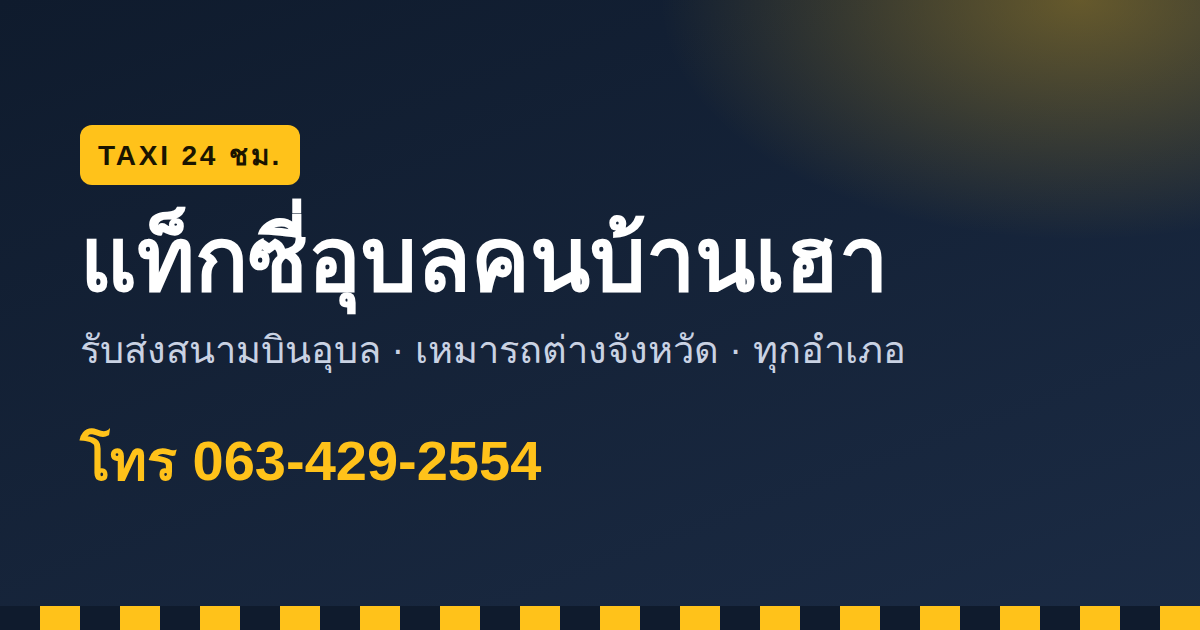
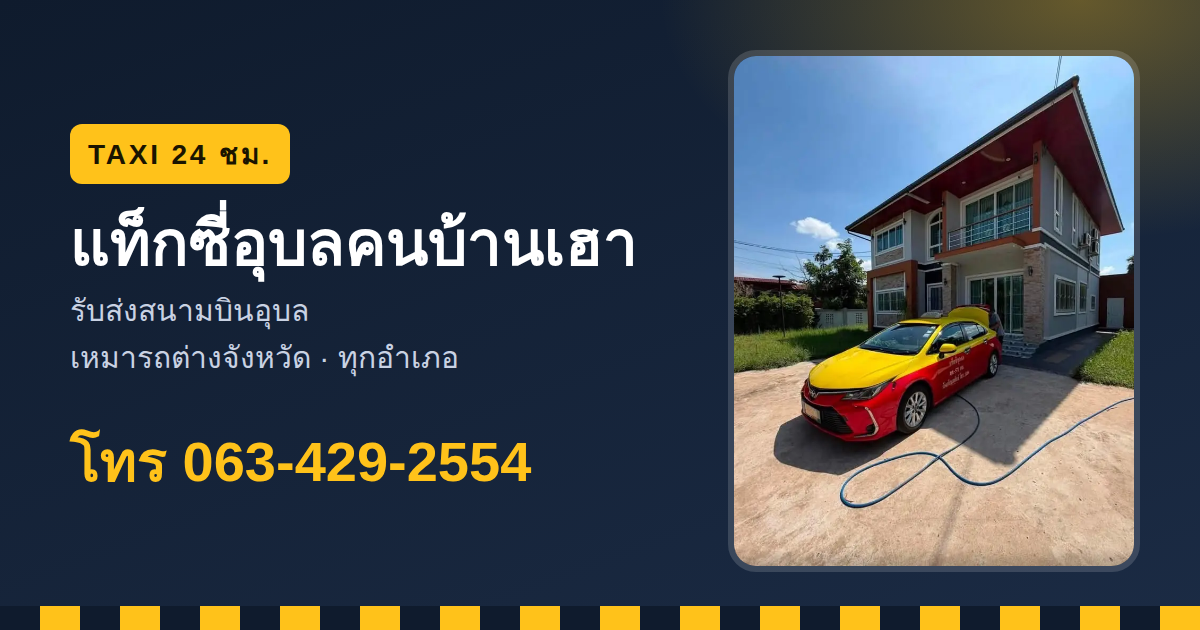
feat(taxi-ubon): real service photos on home, inner pages and OG image
Optimized WebP (480/800/1200w, EXIF stripped) with responsive srcset,
hero photo on home, photo band on every inner page, gallery on home/about.

Claude-Session: https://claude.ai/code/session_01U9xTqR4CxY4YcqVZyJ1H62

diff --git a/taxi-ubon/static/assets/site.css b/taxi-ubon/static/assets/site.css
@@ -155,3 +155,40 @@ tbody th{font-weight:600}
 @media(min-width:900px){.sticky-cta{display:none}}
 
 @media(prefers-reduced-motion:reduce){*{transition:none!important;scroll-behavior:auto!important}}
+
+/* photos */
+.hero-photo{position:relative;margin:0;justify-self:center;width:100%;max-width:440px}
+.hero-photo img{display:block;width:100%;aspect-ratio:4/5;object-fit:cover;border-radius:24px;border:4px solid rgba(255,255,255,.12);
+  box-shadow:0 30px 60px -20px rgba(0,0,0,.6)}
+.hero-photo::before{content:"";position:absolute;inset:18px -14px -14px 18px;border-radius:24px;z-index:-1;
+  background:repeating-linear-gradient(45deg,var(--brand) 0 14px,transparent 14px 28px);opacity:.35}
+.hero-photo{isolation:isolate}
+.badge{position:absolute;display:flex;align-items:center;gap:8px;background:#fff;color:var(--text);padding:10px 14px;border-radius:14px;
+  box-shadow:0 12px 30px rgba(0,0,0,.25);font-size:.9rem;line-height:1.3}
+.badge .i{color:#8a6200;width:1.5em;height:1.5em}
+.badge b{color:var(--ink)}
+.badge-top{top:18px;left:-10px}
+.badge-bottom{bottom:22px;right:-10px}
+@media(max-width:899px){.hero-photo img{aspect-ratio:4/3;object-position:50% 85%}.badge-top{left:10px}.badge-bottom{right:10px}}
+
+.photo-band{margin-top:40px;display:grid;gap:14px}
+@media(min-width:760px){.photo-band{grid-template-columns:2fr 1fr}}
+.photo-band figure{margin:0;position:relative;overflow:hidden;border-radius:var(--radius);background:#dde3ee}
+.photo-band img{display:block;width:100%;height:100%;object-fit:cover}
+.pb-main img{aspect-ratio:4/3}
+.pb-main figcaption{position:absolute;left:0;right:0;bottom:0;padding:28px 16px 12px;color:#fff;font-size:.9rem;
+  background:linear-gradient(transparent,rgba(15,27,45,.85))}
+.pb-side{display:grid;gap:14px;grid-template-columns:1fr 1fr}
+@media(min-width:760px){.pb-side{grid-template-columns:1fr;grid-template-rows:1fr auto}}
+.pb-side img{aspect-ratio:1/1}
+@media(min-width:760px){.pb-side img{aspect-ratio:auto;min-height:0}.pb-side figure{min-height:180px}}
+.pb-quote{background:var(--ink);color:#c9d2e3;border-radius:var(--radius);padding:18px;display:flex;flex-direction:column;gap:6px;justify-content:center;font-size:.92rem}
+.pb-quote b{color:var(--brand);font-size:1.05rem}
+
+.gallery{display:grid;gap:12px;grid-template-columns:1fr 1fr}
+@media(min-width:960px){.gallery{grid-template-columns:repeat(4,1fr)}}
+.gallery figure{margin:0;position:relative;overflow:hidden;border-radius:var(--radius);background:#dde3ee}
+.gallery img{display:block;width:100%;aspect-ratio:3/4;object-fit:cover;transition:transform .4s ease}
+.gallery figure:hover img{transform:scale(1.04)}
+.gallery figcaption{position:absolute;left:0;right:0;bottom:0;padding:24px 12px 10px;color:#fff;font-size:.8rem;line-height:1.4;
+  background:linear-gradient(transparent,rgba(15,27,45,.85))}

diff --git a/taxi-ubon/scripts/og.html b/taxi-ubon/scripts/og.html
@@ -1,8 +1,9 @@
 <!doctype html><html lang="th"><meta charset="utf-8"><style>
 body{margin:0;width:1200px;height:630px;font-family:"Noto Sans Thai",Tahoma,sans-serif;color:#fff;
-background:radial-gradient(700px 400px at 90% 0,rgba(255,194,26,.35),transparent 60%),linear-gradient(160deg,#0f1b2d,#1b2b44);display:flex;flex-direction:column;justify-content:center;padding:0 80px;box-sizing:border-box;position:relative}
+background:radial-gradient(700px 400px at 90% 0,rgba(255,194,26,.35),transparent 60%),linear-gradient(160deg,#0f1b2d,#1b2b44);display:flex;flex-direction:column;justify-content:center;padding:0 520px 0 70px;box-sizing:border-box;position:relative}
 .tag{display:inline-block;background:#ffc21a;color:#1a1400;font-weight:800;padding:8px 18px;border-radius:12px;font-size:28px;letter-spacing:.1em;width:max-content}
-h1{font-size:88px;margin:24px 0 8px;line-height:1.15}p{font-size:38px;margin:0;color:#c9d2e3}
+h1{font-size:62px;white-space:nowrap;margin:24px 0 8px;line-height:1.15}p{font-size:30px;margin:0;color:#c9d2e3}
 .phone{margin-top:36px;font-size:56px;font-weight:800;color:#ffc21a}
+.photo{position:absolute;right:60px;top:50px;width:400px;height:510px;object-fit:cover;border-radius:28px;border:6px solid rgba(255,255,255,.15)}
 .strip{position:absolute;left:0;right:0;bottom:0;height:24px;background:repeating-linear-gradient(90deg,#0f1b2d 0 40px,#ffc21a 40px 80px)}
-</style><body><span class="tag">TAXI 24 ชม.</span><h1>แท็กซี่อุบลคนบ้านเฮา</h1><p>รับส่งสนามบินอุบล · เหมารถต่างจังหวัด · ทุกอำเภอ</p><div class="phone">โทร 063-429-2554</div><div class="strip"></div></body></html>
+</style><body><span class="tag">TAXI 24 ชม.</span><h1>แท็กซี่อุบลคนบ้านเฮา</h1><p>รับส่งสนามบินอุบล<br>เหมารถต่างจังหวัด · ทุกอำเภอ</p><div class="phone">โทร 063-429-2554</div><img class="photo" src="../static/img/taxi-at-home-765.webp"><div class="strip"></div></body></html>

diff --git a/taxi-ubon/README.md b/taxi-ubon/README.md
@@ -11,7 +11,16 @@ taxi-ubon/
   static/              ← CSS, favicon, og.png, _headers, _redirects
   scripts/serve.mjs    ← preview ในเครื่อง: node scripts/serve.mjs → http://localhost:8788
   scripts/make-images.mjs ← สร้าง og.png / apple-touch-icon.png ใหม่ (ต้องมี playwright)
+  photos-src/          ← รูปต้นฉบับ
+  static/img/          ← รูป WebP ที่ย่อแล้ว 480/800/1200px (สร้างโดย scripts/optimize-images.mjs)
+  content/images.json  ← ขนาดรูป (สร้างอัตโนมัติ ใช้ตอน build)
 ```
+
+### เพิ่ม/เปลี่ยนรูป
+1. วางไฟล์ .jpg ใน `photos-src/` (ตั้งชื่อภาษาอังกฤษ เช่น `airport-pickup.jpg`)
+2. `npm i --no-save sharp && node scripts/optimize-images.mjs` → ได้ WebP หลายขนาด (ลบ EXIF/GPS ออกให้แล้ว)
+3. เพิ่มคำอธิบายรูป (alt) ใน `photos` ใน `build.mjs` แล้วใส่ `image: 'airport-pickup'` ในหน้าที่ต้องการใน `content/pages.mjs`
+   (ถ้าไม่ใส่ จะใช้รูปตามกลุ่มหน้าจาก `groupPhoto`)
 
 ## Deploy บน Cloudflare Pages
 
@@ -68,7 +77,7 @@ taxi-ubon/
 - **ราคา:** เว็บยังไม่แสดงราคาตายตัว (ตาราง "สอบถามราคา") — ถ้ามีราคาเริ่มต้นที่ยืนยันได้ ให้ใส่ใน `content/pages.mjs`
   ราคาเป็นปัจจัยที่คนค้นหาอยากเห็นมาก (เช่น "แท็กซี่อุบล-ขอนแก่น ราคา")
 - **ระยะทาง/เวลา** เป็นค่าประมาณ ตรวจทานให้ตรงกับที่วิ่งจริง
-- **รูปจริง** ของรถและคนขับ (ใส่ใน `static/` แล้วอ้างอิงในเนื้อหา) ช่วยเรื่องความน่าเชื่อถือ
+- **รูปเพิ่ม:** รูปที่สนามบินอุบล สถานีรถไฟ และสถานที่ท่องเที่ยวจริง จะช่วยให้หน้าเฉพาะเรื่องดูน่าเชื่อถือขึ้น
 - **Google Business Profile:** ตั้งชื่อ/เบอร์/ที่อยู่ให้ตรงกับเว็บ และใส่ลิงก์เว็บ
 - เบอร์ 083-682-7699 (จากเว็บ simdif เดิม) ไม่ได้ใช้ในเว็บนี้ ถ้ายังใช้อยู่ให้เพิ่มใน `site.config.mjs`
 
